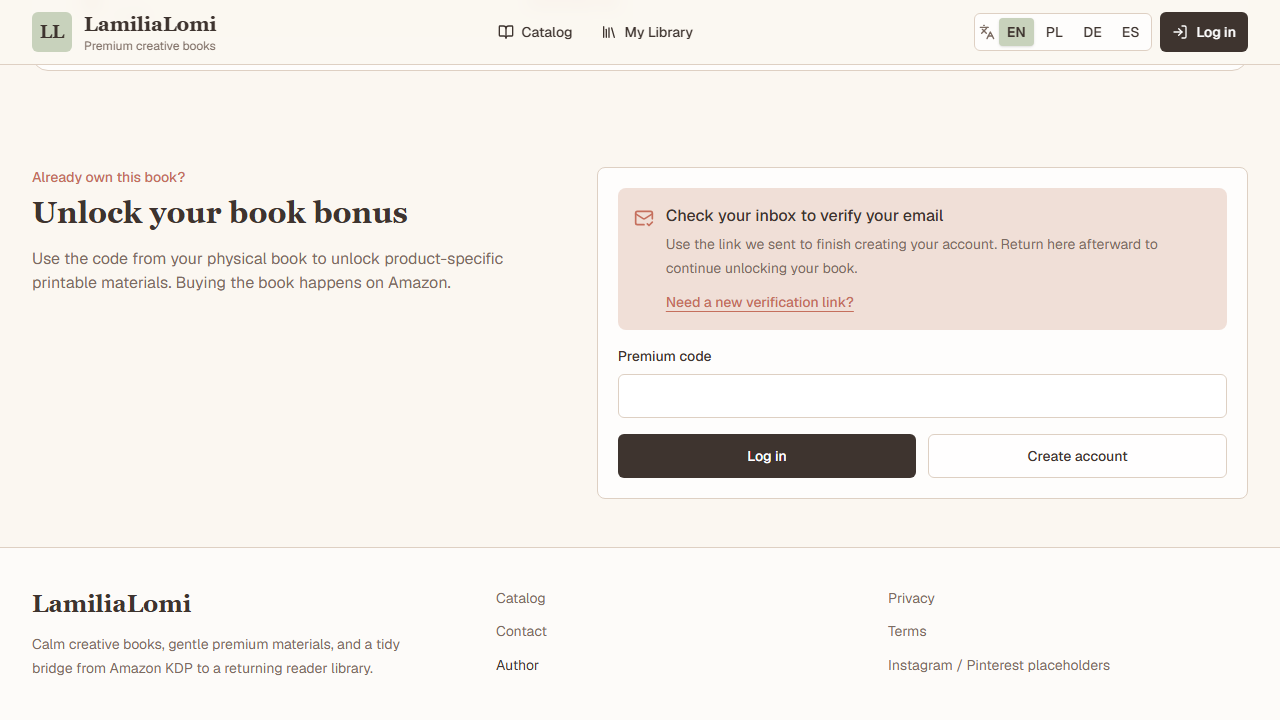
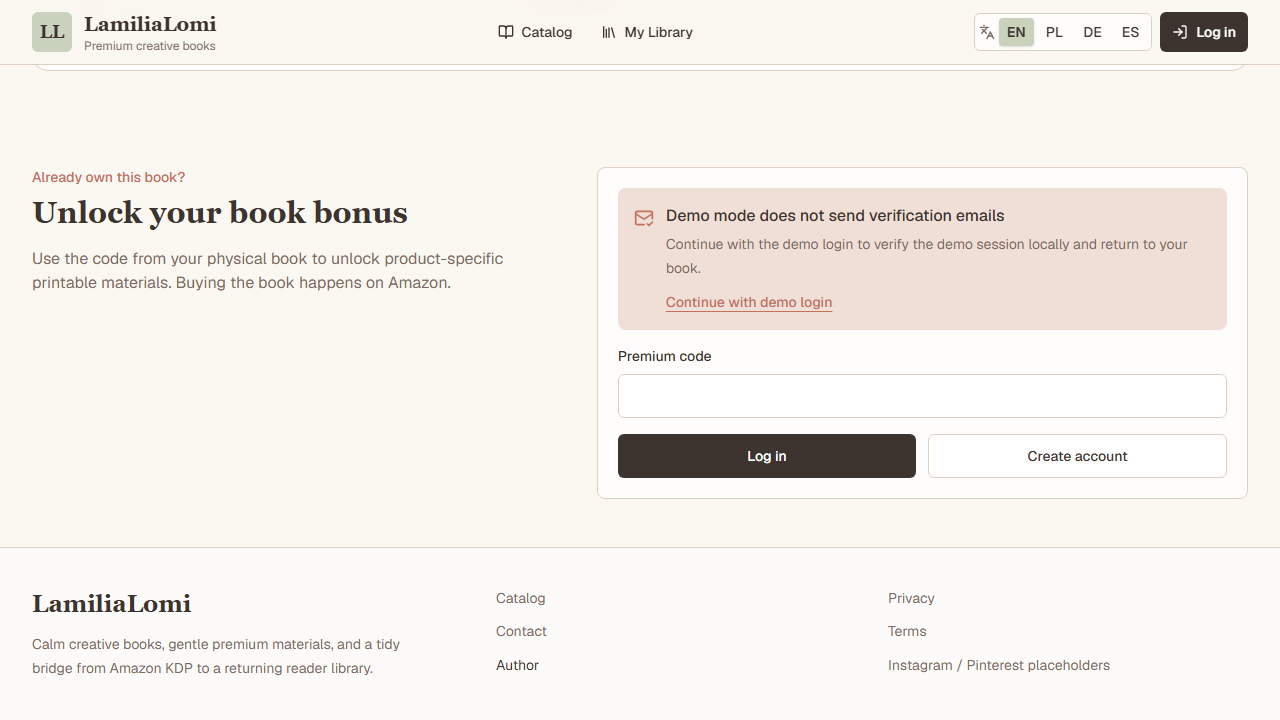
fix: complete local verification return flow

Changed region(s): [[0.5, 0.275, 0.9375, 0.4278]]

diff --git a/src/components/language-switcher.tsx b/src/components/language-switcher.tsx
@@ -1,6 +1,5 @@
 "use client";
 
-import { useEffect, useState } from "react";
 import { Languages } from "lucide-react";
 import { usePathname, useSearchParams } from "next/navigation";
 
@@ -25,15 +24,6 @@ export function LanguageSwitcher({ locale }: { locale: Locale }) {
   const pathname = usePathname();
   const searchParams = useSearchParams();
   const search = searchParams.toString();
-  const [hash, setHash] = useState("");
-
-  useEffect(() => {
-    const syncHash = () => setHash(window.location.hash);
-    syncHash();
-    window.addEventListener("hashchange", syncHash);
-
-    return () => window.removeEventListener("hashchange", syncHash);
-  }, []);
 
   return (
     <div className="inline-flex min-w-0 shrink-0 items-center gap-1 rounded-md border border-[var(--color-border)] bg-white/75 p-1 text-sm">
@@ -43,7 +33,6 @@ export function LanguageSwitcher({ locale }: { locale: Locale }) {
           <LocaleForm
             key={targetLocale}
             currentLocale={locale}
-            hash={hash}
             pathname={pathname}
             search={search}
             targetLocale={targetLocale}
@@ -63,7 +52,6 @@ export function LanguageSwitcher({ locale }: { locale: Locale }) {
             <LocaleForm
               key={targetLocale}
               currentLocale={locale}
-              hash={hash}
               pathname={pathname}
               search={search}
               targetLocale={targetLocale}
@@ -78,14 +66,12 @@ export function LanguageSwitcher({ locale }: { locale: Locale }) {
 
 function LocaleForm({
   currentLocale,
-  hash,
   pathname,
   search,
   targetLocale,
   mobile = false,
 }: {
   currentLocale: Locale;
-  hash: string;
   pathname: string;
   search: string;
   targetLocale: Locale;
@@ -94,12 +80,21 @@ function LocaleForm({
   const isActive = targetLocale === currentLocale;
 
   return (
-    <form action={switchLocaleAction}>
+    <form
+      action={switchLocaleAction}
+      onSubmit={(event) => {
+        const hash = event.currentTarget.elements.namedItem("hash");
+
+        if (hash instanceof HTMLInputElement) {
+          hash.value = window.location.hash;
+        }
+      }}
+    >
       <input type="hidden" name="sourceLocale" value={currentLocale} />
       <input type="hidden" name="targetLocale" value={targetLocale} />
       <input type="hidden" name="pathname" value={pathname} />
       <input type="hidden" name="search" value={search} />
-      <input type="hidden" name="hash" value={hash} />
+      <input type="hidden" name="hash" defaultValue="" />
       <button
         type="submit"
         className={`rounded px-2 py-1 text-[var(--color-ink)] transition focus-visible:outline-2 focus-visible:outline-offset-2 focus-visible:outline-[var(--color-terracotta)] ${isActive ? "bg-[var(--color-sage)] font-semibold shadow-sm" : "font-medium hover:bg-[var(--color-blush)]"} ${mobile ? "flex w-full items-center justify-between gap-3" : "inline-flex"}`}

diff --git a/src/app/[locale]/login/page.test.tsx b/src/app/[locale]/login/page.test.tsx
@@ -5,6 +5,7 @@ import { cleanup, render } from "@testing-library/react";
 import { afterEach, beforeEach, describe, expect, it, vi } from "vitest";
 
 const pageMocks = vi.hoisted(() => ({
+  getBackendMode: vi.fn(),
   getUnlockIntent: vi.fn(),
 }));
 
@@ -24,6 +25,10 @@ vi.mock("@/lib/unlock-intent", () => ({
   getUnlockIntent: pageMocks.getUnlockIntent,
 }));
 
+vi.mock("@/lib/config", () => ({
+  getBackendMode: pageMocks.getBackendMode,
+}));
+
 vi.mock("next-intl/server", () => ({
   getTranslations: async () => (key: string) =>
     ({
@@ -39,6 +44,7 @@ vi.mock("next-intl/server", () => ({
       emailNotConfirmed: "Email not verified",
       verificationSent: "Verification sent",
       verificationRequired: "Enter the email address that received the verification link, then request a new one.",
+      demoVerification: "Demo mode does not send verification emails. Use the demo login above to continue.",
       invalid: "Invalid",
       resendVerification: "Send verification email again",
     })[key],
@@ -56,6 +62,7 @@ afterEach(() => cleanup());
 describe("Login page registration CTA", () => {
   beforeEach(() => {
     pageMocks.getUnlockIntent.mockResolvedValue(null);
+    pageMocks.getBackendMode.mockReturnValue("supabase");
   });
 
   it("shows a generic create-account link without inventing a return target", async () => {
@@ -109,5 +116,25 @@ describe("Login page registration CTA", () => {
     );
 
     expect(view.container.querySelector<HTMLInputElement>('input[name="code"]')).toHaveValue("");
+  });
+
+  it("shows demo verification guidance without a non-functional resend form", async () => {
+    pageMocks.getBackendMode.mockReturnValue("local");
+
+    const view = render(
+      await LoginPage({
+        params: Promise.resolve({ locale: "en" }),
+        searchParams: Promise.resolve({
+          error: "verification_required",
+          returnTo: "/en/products/moon-garden-coloring-book",
+        }),
+      }),
+    );
+
+    expect(view.getByRole("alert")).toHaveTextContent(
+      "Demo mode does not send verification emails. Use the demo login above to continue.",
+    );
+    expect(view.container.querySelector("#verification-email")).toBeNull();
+    expect(view.getByRole("button", { name: "Continue" })).toBeInTheDocument();
   });
 });

diff --git a/tests/e2e/issue-30-auth-return.spec.ts b/tests/e2e/issue-30-auth-return.spec.ts
@@ -56,28 +56,32 @@ test("registration required fields stop an empty submission in the browser", asy
   ).toBe(true);
 });
 
-test("verification pending state explains the next step and offers a safe resend link", async ({ page }, testInfo) => {
+test("local verification pending state offers the demo login path", async ({ page }, testInfo) => {
   await page.context().clearCookies();
   await page.goto(`/en/products/${productSlug}?step=verify#premium`);
 
   await expect(page.getByTestId("product-unlock-section")).toBeInViewport();
-  await expect(page.getByText("Check your inbox to verify your email")).toBeVisible();
-  const resendLink = page.getByRole("link", { name: "Need a new verification link?" });
-  await expect(resendLink).toHaveAttribute(
+  await expect(page.getByText("Demo mode does not send verification emails")).toBeVisible();
+  const demoLoginLink = page.getByRole("link", { name: "Continue with demo login" });
+  await expect(demoLoginLink).toHaveAttribute(
     "href",
     `/en/login?error=verification_required&returnTo=%2Fen%2Fproducts%2F${productSlug}`,
   );
   await expect(page.getByLabel("Premium code")).toHaveValue("");
   await saveEvidenceScreenshot(page, testInfo, "verification-pending");
 
-  await resendLink.click();
+  await demoLoginLink.click();
   await expect(page).toHaveURL(
     new RegExp(`/en/login\\?error=verification_required&returnTo=%2Fen%2Fproducts%2F${productSlug}$`),
   );
   await expect(page.locator("#login-error")).toHaveText(
-    "Enter the email address that received the verification link, then request a new one.",
+    "Demo mode does not send verification emails. Use the demo login above to continue; it verifies the demo session locally.",
   );
-  await expect(page.locator("#verification-email")).toBeVisible();
+  await expect(page.locator("#verification-email")).toHaveCount(0);
+  await expect(page.getByLabel("Email")).toHaveValue("demo@lamilialomi.test");
+  await page.getByRole("button", { name: "Continue" }).click();
+  await expect(page).toHaveURL(new RegExp(`/en/products/${productSlug}#premium$`));
+  await expect(page.getByTestId("product-unlock-section")).toBeInViewport();
 });
 
 test("auth route reports client and network errors without exposing form values", async ({ page }, testInfo) => {

diff --git a/src/app/[locale]/login/page.tsx b/src/app/[locale]/login/page.tsx
@@ -27,6 +27,7 @@ export default async function LoginPage({ params, searchParams }: Props) {
     : undefined;
   const redirectTo = safeRequestedReturnTo || sanitizeReturnTo(undefined, locale);
   const unlockIntent = await getUnlockIntent();
+  const isDemo = getBackendMode() === "local";
   const code =
     unlockIntent &&
     unlockIntent.locale === locale &&
@@ -34,16 +35,16 @@ export default async function LoginPage({ params, searchParams }: Props) {
       ? unlockIntent.code ?? ""
       : "";
   const error = stringParam(query.error);
-  const verificationMessage = getLoginErrorMessage(error, t);
+  const verificationMessage = getLoginErrorMessage(error, t, isDemo);
   const canCreateAccount = Boolean(safeRequestedReturnTo);
-  const isDemo = getBackendMode() === "local";
   const canResendVerification =
-    error === "email_unverified" ||
-    error === "verification_required" ||
-    error === "verification_sent" ||
-    error === "verification_unavailable" ||
-    error === "verification_failed" ||
-    error === "verification_mismatch";
+    !isDemo &&
+    (error === "email_unverified" ||
+      error === "verification_required" ||
+      error === "verification_sent" ||
+      error === "verification_unavailable" ||
+      error === "verification_failed" ||
+      error === "verification_mismatch");
 
   return (
     <div className="mx-auto grid min-h-[calc(100svh-4rem)] max-w-6xl place-items-center px-4 py-10">
@@ -132,6 +133,7 @@ export default async function LoginPage({ params, searchParams }: Props) {
 function getLoginErrorMessage(
   error: string | undefined,
   t: Awaited<ReturnType<typeof getTranslations>>,
+  isDemo: boolean,
 ) {
   if (!error) {
     return null;
@@ -143,7 +145,7 @@ function getLoginErrorMessage(
     case "verification_sent":
       return t("verificationSent");
     case "verification_required":
-      return t("verificationRequired");
+      return isDemo ? t("demoVerification") : t("verificationRequired");
     case "verification_unavailable":
       return t("verificationUnavailable");
     case "verification_mismatch":

diff --git a/src/components/unlock-form.tsx b/src/components/unlock-form.tsx
@@ -17,7 +17,10 @@ export type UnlockCopy = {
   verificationRequiredDescription: string;
   verificationPending: string;
   verificationPendingDescription: string;
+  verificationPendingDemo: string;
+  verificationPendingDemoDescription: string;
   resendVerification: string;
+  continueDemoVerification: string;
   verifyDemo: string;
   codeLabel: string;
   codePlaceholder: string;
@@ -41,6 +44,7 @@ type Props = {
   error?: string;
   alreadyUnlocked?: boolean;
   verificationPending?: boolean;
+  isDemo?: boolean;
   copy: UnlockCopy;
 };
 
@@ -53,6 +57,7 @@ export function UnlockForm({
   error,
   alreadyUnlocked = false,
   verificationPending = false,
+  isDemo = false,
   copy,
 }: Props) {
   const redirectTo = `/${locale}/products/${productSlug}`;
@@ -69,11 +74,17 @@ export function UnlockForm({
           )}
           <div>
             <p className="font-medium">
-              {verificationPending ? copy.verificationPending : copy.loginRequired}
+              {verificationPending
+                ? isDemo
+                  ? copy.verificationPendingDemo
+                  : copy.verificationPending
+                : copy.loginRequired}
             </p>
             <p className="mt-1 text-sm leading-6 text-[var(--color-muted)]">
               {verificationPending
-                ? copy.verificationPendingDescription
+                ? isDemo
+                  ? copy.verificationPendingDemoDescription
+                  : copy.verificationPendingDescription
                 : copy.loginRequiredDescription}
             </p>
             {verificationPending ? (
@@ -81,7 +92,7 @@ export function UnlockForm({
                 className="mt-3 inline-flex text-sm font-medium text-[var(--color-terracotta)] underline underline-offset-4"
                 href={`/${locale}/login?error=verification_required&returnTo=${encodeURIComponent(redirectTo)}`}
               >
-                {copy.resendVerification}
+                {isDemo ? copy.continueDemoVerification : copy.resendVerification}
               </Link>
             ) : null}
           </div>

diff --git a/src/app/[locale]/(product-detail)/products/[slug]/page.tsx b/src/app/[locale]/(product-detail)/products/[slug]/page.tsx
@@ -128,6 +128,7 @@ async function ProductUnlockSection({
                 initialCode={hasCurrentIntent ? unlockIntent?.code : undefined}
                 session={access.session}
                 isUnlocked={access.isUnlocked}
+                isDemo={backendMode === "local"}
                 error={error}
                 alreadyUnlocked={alreadyUnlocked}
                 verificationPending={verificationPending}
@@ -138,7 +139,10 @@ async function ProductUnlockSection({
                   verificationRequiredDescription: copy("verificationRequiredDescription"),
                   verificationPending: copy("verificationPending"),
                   verificationPendingDescription: copy("verificationPendingDescription"),
+                  verificationPendingDemo: copy("verificationPendingDemo"),
+                  verificationPendingDemoDescription: copy("verificationPendingDemoDescription"),
                   resendVerification: copy("resendVerification"),
+                  continueDemoVerification: copy("continueDemoVerification"),
                   verifyDemo: copy("verifyDemo"),
                   codeLabel: copy("codeLabel"),
                   codePlaceholder: copy("codePlaceholder"),

diff --git a/src/app/actions.test.ts b/src/app/actions.test.ts
@@ -80,7 +80,12 @@ vi.mock("@/lib/unlock-intent", () => ({
   setUnlockIntent: actionMocks.setUnlockIntent,
 }));
 
-import { loginDemoAction, registerDemoAction, unlockPremiumAction } from "./actions";
+import {
+  loginDemoAction,
+  registerDemoAction,
+  resendSupabaseVerificationEmailAction,
+  unlockPremiumAction,
+} from "./actions";
 
 beforeEach(() => {
   actionMocks.getBackendMode.mockReturnValue("local");
@@ -247,6 +252,20 @@ describe("registration auth action", () => {
       code: "",
       email: "reader@example.com",
     });
+  });
+
+  it("keeps local verification resend requests on the demo guidance path", async () => {
+    const formData = new FormData();
+    formData.set("locale", "en");
+    formData.set("email", "reader@example.com");
+    formData.set("returnTo", "/en/products/moon-garden-coloring-book");
+
+    await expectRedirect(
+      resendSupabaseVerificationEmailAction(formData),
+      "/en/login?error=verification_required&returnTo=%2Fen%2Fproducts%2Fmoon-garden-coloring-book",
+    );
+
+    expect(actionMocks.createClient).not.toHaveBeenCalled();
   });
 
   it("keeps an unlock registration on the product resume path", async () => {

diff --git a/tests/e2e/unlock-funnel.spec.ts b/tests/e2e/unlock-funnel.spec.ts
@@ -207,7 +207,13 @@ test("mobile locale switcher exposes every locale and preserves code intent thro
   await page.getByLabel("E-Mail").fill("locked@example.com");
   await page.getByRole("button", { name: "Weiter" }).click();
   expect(page.url()).not.toContain("code=");
+  await expect(page).toHaveURL(new RegExp(`/de/products/${productSlug}#premium$`));
+  await expect(page.getByTestId("product-unlock-section")).toBeInViewport();
   await expect(page.getByLabel("Premium-Code")).toHaveValue("LOMI-BOOK-2026");
+  await switchLocaleThroughMobileMenu(page, "es");
+  await expect(page).toHaveURL(new RegExp(`/es/products/${productSlug}#premium$`));
+  await expect(page.getByTestId("product-unlock-section")).toBeInViewport();
+  await expect(page.getByLabel("Código premium")).toHaveValue("LOMI-BOOK-2026");
 });
 
 test("mobile locale switching keeps no-code state and prevents cross-product intent leakage", async ({ page }, testInfo) => {

diff --git a/src/app/actions.ts b/src/app/actions.ts
@@ -244,7 +244,9 @@ export async function resendSupabaseVerificationEmailAction(formData: FormData) 
   }
 
   if (getBackendMode() !== "supabase") {
-    redirect(`/${locale}/login?returnTo=${encodeURIComponent(returnTo)}`);
+    redirect(
+      `/${locale}/login?error=verification_required&returnTo=${encodeURIComponent(returnTo)}`,
+    );
   }
 
   const intent = await setAuthResumeIntent({
